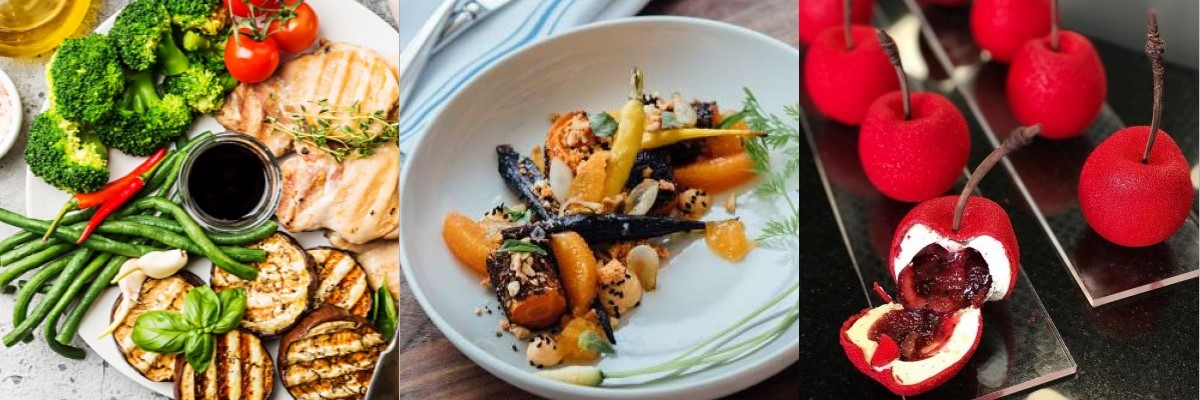
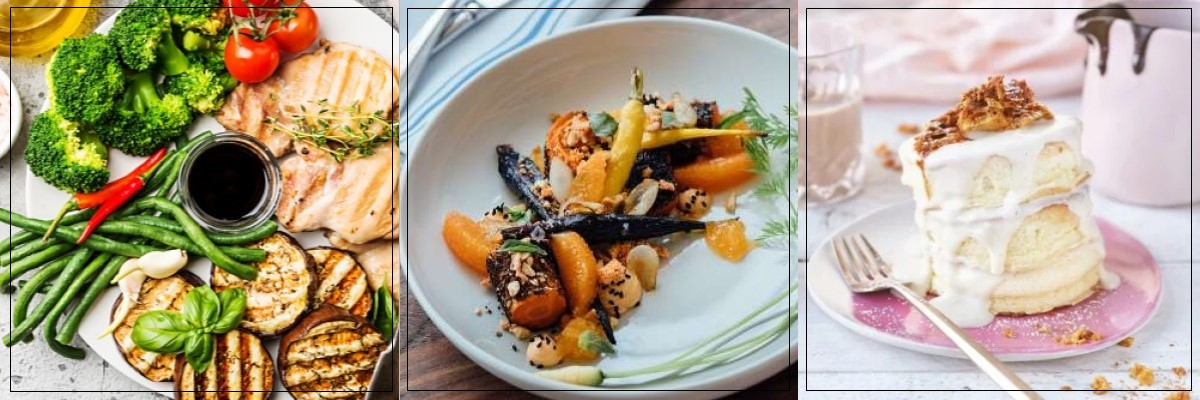
added food bg and changed some others bg

diff --git a/src/App/Main/CategoryPages/FoodPage/FoodPage.js b/src/App/Main/CategoryPages/FoodPage/FoodPage.js
@@ -1,6 +1,6 @@
 import React from 'react'
 
-// import lifestyle from './fashion.png'
+import food from './food_bg.png'
 import '../../CategoryPages/categoryPages.css'
 
 import FoodPostsList from './FoodPostsList'
@@ -8,9 +8,9 @@ import FoodPostsList from './FoodPostsList'
 const FoodPage = () => {
     return (
         <>
-            {/* <div className="static-picture">
-                <img src={lifestyle} alt=""/>
-            </div> */}
+            <div className="sticky-picture">
+                <img src={food} alt=""/>
+            </div>
             <main className="main">
                 <div className="container">
                     <div className="category-row">

diff --git a/src/App/Main/AboutPage/AboutPage.js b/src/App/Main/AboutPage/AboutPage.js
@@ -1,13 +1,14 @@
 import React from 'react'
+
 import about from './about.jpg'
-import AuthorList from './AuthorList'
+import AuthorList from './AuthorInfo/AuthorList'
 
 import './aboutPage.css'
 
 const AboutPage = () => {
     return (
         <>
-            <div className="static-picture">
+            <div className="sticky-picture">
                 <img src={about} alt=""/>
             </div>
             <main className="main">

diff --git a/src/App/Main/CategoryPages/InspirationPage/InspirationPage.js b/src/App/Main/CategoryPages/InspirationPage/InspirationPage.js
@@ -8,7 +8,7 @@ import InspirationPostsList from './InspirationPostsList'
 const InspirationPage = () => {
     return (
         <>
-            <div className="static-picture">
+            <div className="sticky-picture">
                 <img src={inspiration} alt=""/>
             </div>
             <main className="main">

diff --git a/src/App/Main/CategoryPages/PhotographyPage/PhotographyPage.js b/src/App/Main/CategoryPages/PhotographyPage/PhotographyPage.js
@@ -8,7 +8,7 @@ import PhotographyPostsList from './PhotographyPostsList'
 const PhotographyPage = () => {
     return (
         <>
-            <div className="static-picture">
+            <div className="sticky-picture">
                 <img src={photography} alt=""/>
             </div>
             <main className="main">

diff --git a/src/App/Main/CategoryPages/LifestylePage/LifestylePage.js b/src/App/Main/CategoryPages/LifestylePage/LifestylePage.js
@@ -8,7 +8,7 @@ import LifestylePostsList from './LifestylePostsList'
 const LifestylePage = () => {
     return (
         <>
-            <div className="static-picture">
+            <div className="sticky-picture">
                 <img src={lifestyle} alt=""/>
             </div>
             <main className="main">

diff --git a/src/App/Main/ContactPage/ContactPage.js b/src/App/Main/ContactPage/ContactPage.js
@@ -10,7 +10,7 @@ import ContactForm from './ContactForm/ContactForm'
 const ContactPage = () => {
     return (
         <>
-            <div className="static-picture">
+            <div className="sticky-picture">
                 <img src={contactbg} alt=""/>
             </div>
             <main className="main">

diff --git a/src/App/Main/CategoryPages/FashionPage/FashionPage.js b/src/App/Main/CategoryPages/FashionPage/FashionPage.js
@@ -8,7 +8,7 @@ import FashionPostsList from './FashionPostsList'
 const FashionPage = () => {
     return (
         <>
-            <div className="static-picture">
+            <div className="sticky-picture">
                 <img src={fashion} alt=""/>
             </div>
             <main className="main">

diff --git a/src/App/Main/CategoryPages/TravelPage/TravelPage.js b/src/App/Main/CategoryPages/TravelPage/TravelPage.js
@@ -8,7 +8,7 @@ import TravelPostsList from './TravelPostsList'
 const TravelPage = () => {
     return (
         <>
-            <div className="static-picture">
+            <div className="sticky-picture">
                 <img src={travel} alt=""/>
             </div>
             <main className="main">

diff --git a/src/App/Main/BlogPage/BlogPage.js b/src/App/Main/BlogPage/BlogPage.js
@@ -14,7 +14,7 @@ import './blogPage.css'
 const ContactPage = () => {
     return (
         <>
-            <div className="static-picture">
+            <div className="sticky-picture">
                 <img src={blog} alt=""/>
             </div>
             <main className="main">

diff --git a/src/common/style/base.css b/src/common/style/base.css
@@ -39,6 +39,16 @@ body {
 	justify-items: center;
 }
 
+.sticky-picture {
+	position: sticky;
+	top:90px;
+	z-index: -20;
+}
+.sticky-picture>img {
+	width: 100%;
+	max-height: 450px;
+}
+
 
 @media(max-width: 767px) {
 	.header-row {

diff --git a/src/App/Main/AboutPage/aboutPage.css b/src/App/Main/AboutPage/aboutPage.css
@@ -6,15 +6,7 @@
 .about-row .about-author:first-child {
 	padding-top: 60px;
 }
-.static-picture {
-	position: sticky;
-	top:90px;
-	z-index: -20;
-}
-.static-picture>img {
-	width: 100%;
-	max-height: 450px;
-}
+
 
 
 

diff --git a/src/App/Main/BlogPage/blogPage.css b/src/App/Main/BlogPage/blogPage.css
@@ -1,12 +1,3 @@
-.static-picture {
-	position: sticky;
-	top:192px;
-}
-.static-picture>img {
-	width: 100%;
-	max-height: 450px;
-}
-
 .blog-row {
 	display: grid;
 	grid-auto-rows: min-content;
